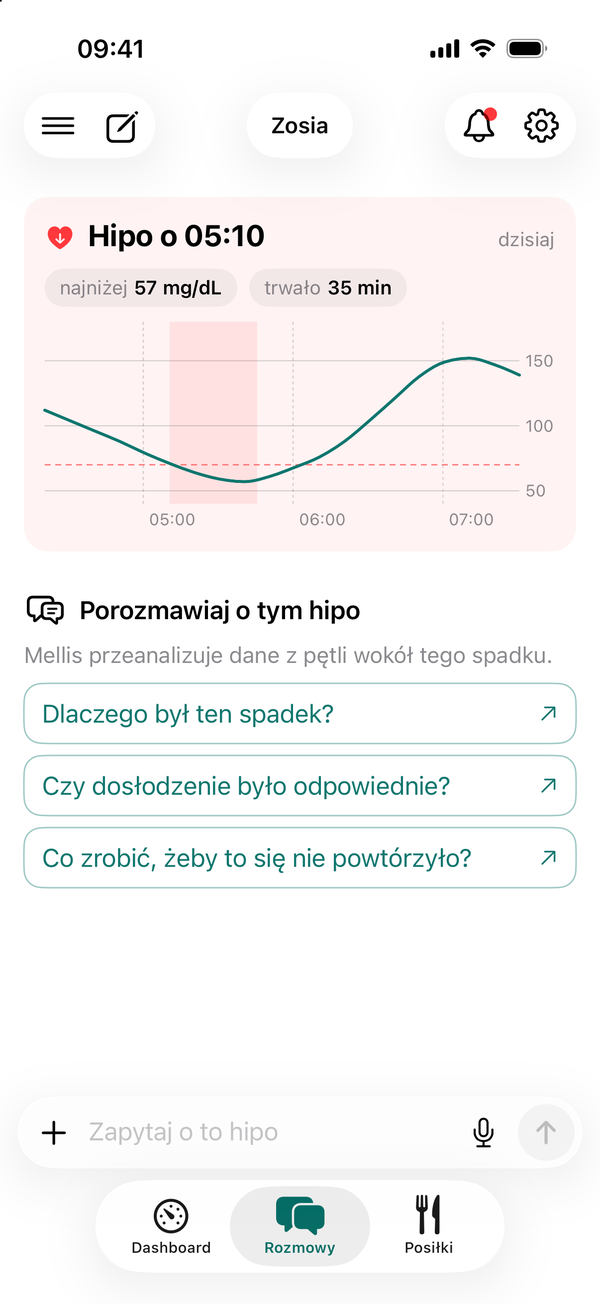
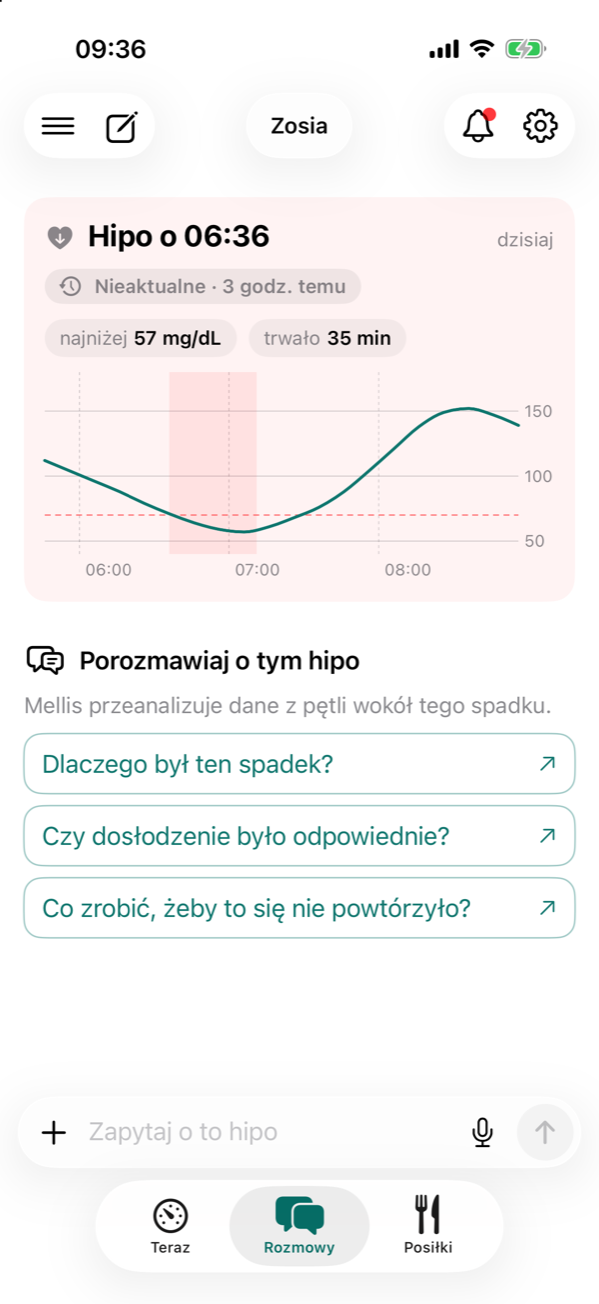
docs(chat): current hypo screen, therapy settings, time in range and daily insulin
The post-hypo screenshot still had the old 'Dashboard' tab; it is retaken from
the current app (Teraz / Rozmowy / Posiłki, the 'Nieaktualne' chip after 30 min).
New, one card per screenshot: the therapy settings card ('Jakie Zosia ma
ustawienia?'), time in range and the average daily insulin, with a line on the
one-number questions.

diff --git a/docs-site/docs/co-potrafi.md b/docs-site/docs/co-potrafi.md
@@ -120,6 +120,30 @@ Czat z AI, które widzi dane podopiecznego.
 - Pytania o ustawienia terapii („Jaką bazę ma Janek?”, „Jakie jest ICR o 13:00?”, „Pokaż ICR i ISF razem”) dostają
   kartę z ustawieniami z profilu pętli: wartość teraz albo o podanej godzinie, wszystkie godziny w ciągu doby i sąsiednie
   wartości. Takie odpowiedzi serwer pisze bez AI, więc przychodzą od razu i nic nie kosztują.
+- Pytania o jedną liczbę z ostatnich dni („Jaki czas w zakresie z ostatnich 14 dni?”, „Jakie było średnie DDI?”)
+  dostają kartę z wynikiem nad odpowiedzią: czas w zakresie z podziałem na powyżej i poniżej albo średnią dawkę dobową z
+  podziałem na bolusy, SMB i bazę. Liczby na karcie liczy serwer, tak samo jak na ekranie Teraz, a AI pisze tylko
+  zdanie pod nią.
+
+<div class="screens" markdown>
+
+<figure markdown>
+![Karta ustawień terapii w rozmowie](assets/screens/rozmowy-ustawienia-terapii.png){ loading=lazy }
+<figcaption>„Jakie Zosia ma ustawienia?”: baza, ICR, ISF i cel w ciągu doby, z wartościami na teraz i datą ostatniej zmiany w Trio.</figcaption>
+</figure>
+
+<figure markdown>
+![Karta czasu w zakresie w rozmowie](assets/screens/rozmowy-czas-w-zakresie.png){ loading=lazy }
+<figcaption>„Jaki czas w zakresie z ostatnich czternastu dni?”: 78% w zakresie, 19% powyżej, 3% poniżej.</figcaption>
+</figure>
+
+<figure markdown>
+![Karta średniej dawki dobowej w rozmowie](assets/screens/rozmowy-dawka-dobowa.png){ loading=lazy }
+<figcaption>„Jakie było średnie DDI z ostatnich czternastu dni?”: 14,2 j na dobę, z podziałem na bolusy, SMB i bazę.</figcaption>
+</figure>
+
+</div>
+
 - Pytania „co by było, gdyby” („co by było, gdyby ICR wieczorem był 7,5?”, „czemu w zeszłym tygodniu było lepiej?”):
   Mellis odtwarza zmianę na zapisanych decyzjach pętli z ostatnich tygodni i odpowiada kartą (teraz → po zmianie dla
   spadków i wzrostów) albo małą tabelą wariantów. To odtworzenie, nie gwarancja: zmianę ustawień zawsze omów z
@@ -140,7 +164,7 @@ Czat z AI, które widzi dane podopiecznego.
 
 <figure markdown>
 ![Ekran po niedocukrzeniu](assets/screens/rozmowy-po-hipo.png){ loading=lazy }
-<figcaption>Po niedocukrzeniu Mellis pokazuje jego przebieg i podpowiada pytania do rozmowy.</figcaption>
+<figcaption>Po niedocukrzeniu Mellis otwiera rozmowę o nim: kiedy było, najniższa glukoza, jak długo trwało i wykres wokół spadku, a pod spodem gotowe pytania. Po 30 minutach od końca spadku karta ma znacznik „Nieaktualne”.</figcaption>
 </figure>
 
 </div>
